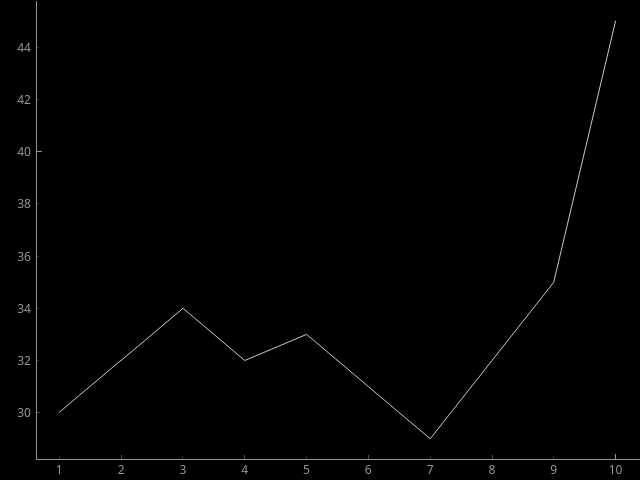
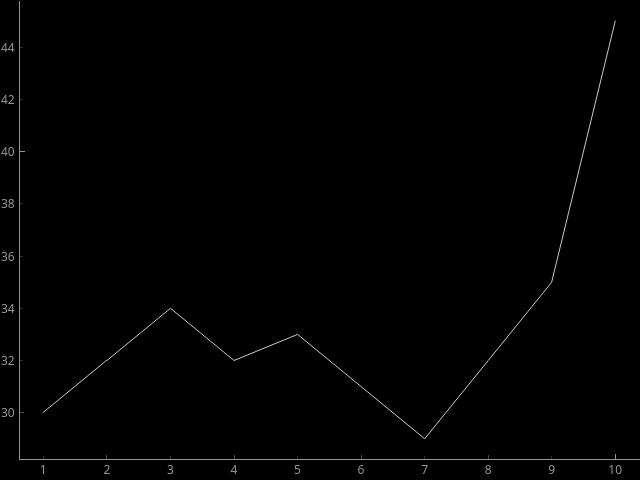
script to create plot using the plotwidget in pyqtgraph

diff --git a/pyqtplot01.py b/pyqtplot01.py
@@ -9,7 +9,6 @@ import sys
 
 import pyqtgraph as pg
 from PyQt6 import QtCore, QtWidgets
-from pyqtgraph import exporters
 
 
 class MainWindow(QtWidgets.QMainWindow):
@@ -19,7 +18,7 @@ class MainWindow(QtWidgets.QMainWindow):
         super().__init__()
 
         # set the size parameters (width, height) pixels
-        self.setFixedSize(QtCore.QSize(400, 300))
+        self.setFixedSize(QtCore.QSize(640, 480))
 
         # set the central widget of the window
         self.graphWidget = pg.PlotWidget()
@@ -27,10 +26,6 @@ class MainWindow(QtWidgets.QMainWindow):
 
         # plot data: x, y values
         self.graphWidget.plot(hour, temperature)
-
-        # create an exporter instance, give it the item to export
-        self.exporter = exporters.ImageExporter(self.graphWidget.plotItem)
-        self.exporter.export("pyqtplot01.png")
 
 
 def main():
